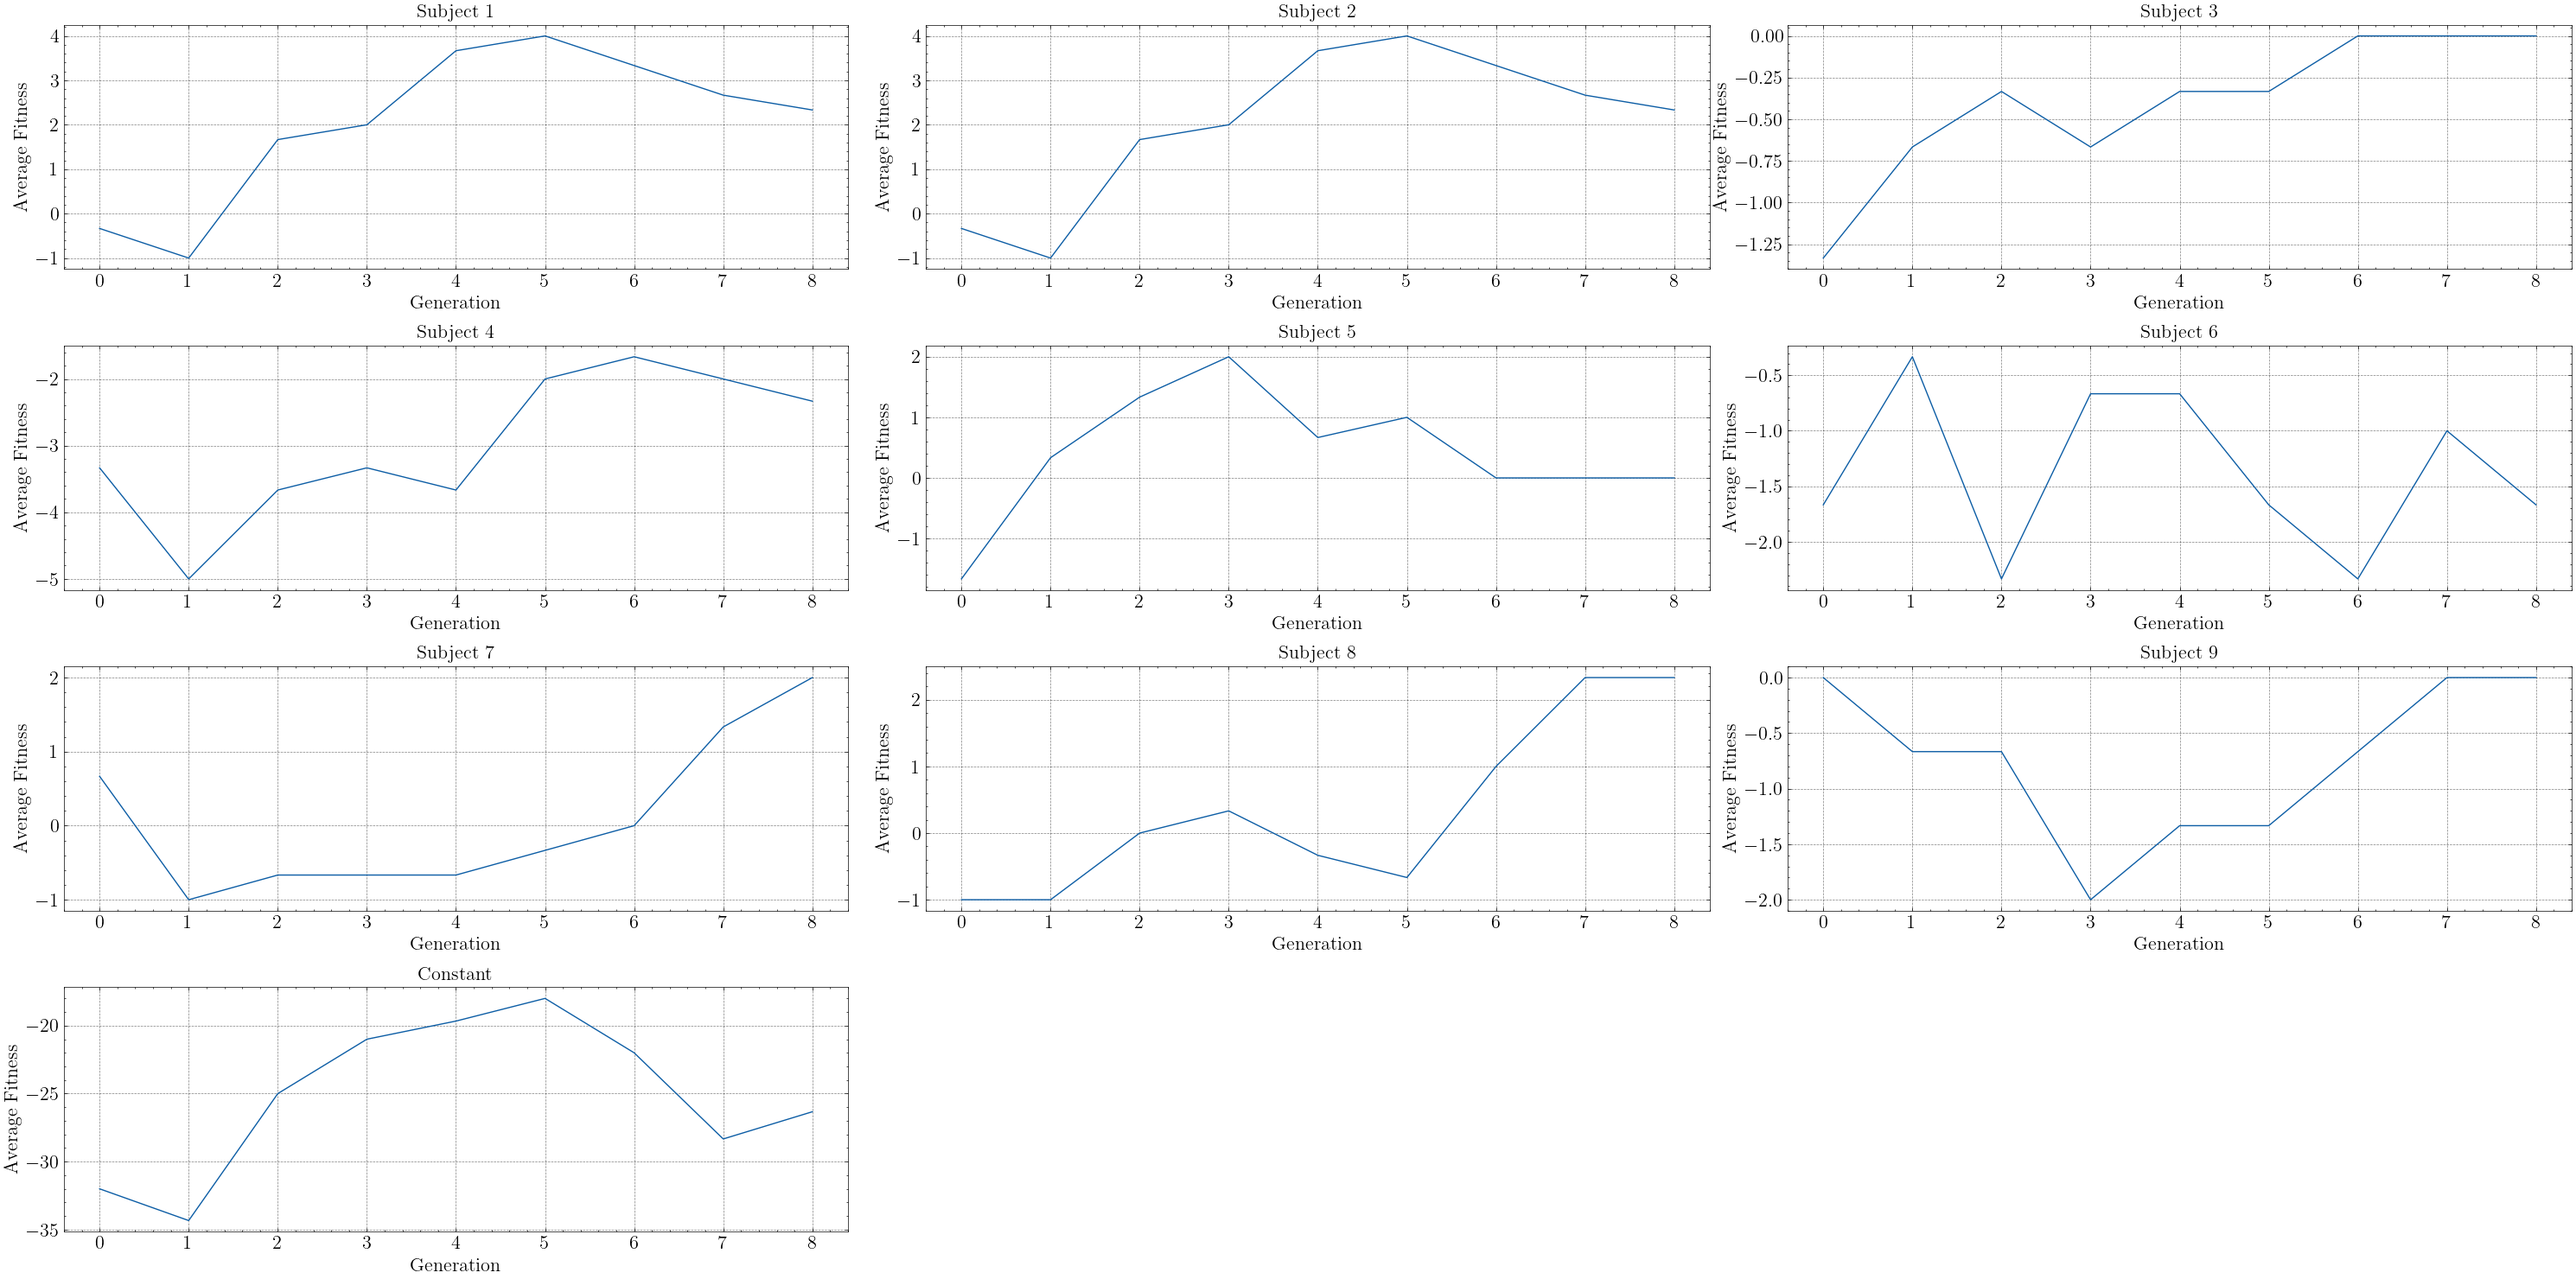
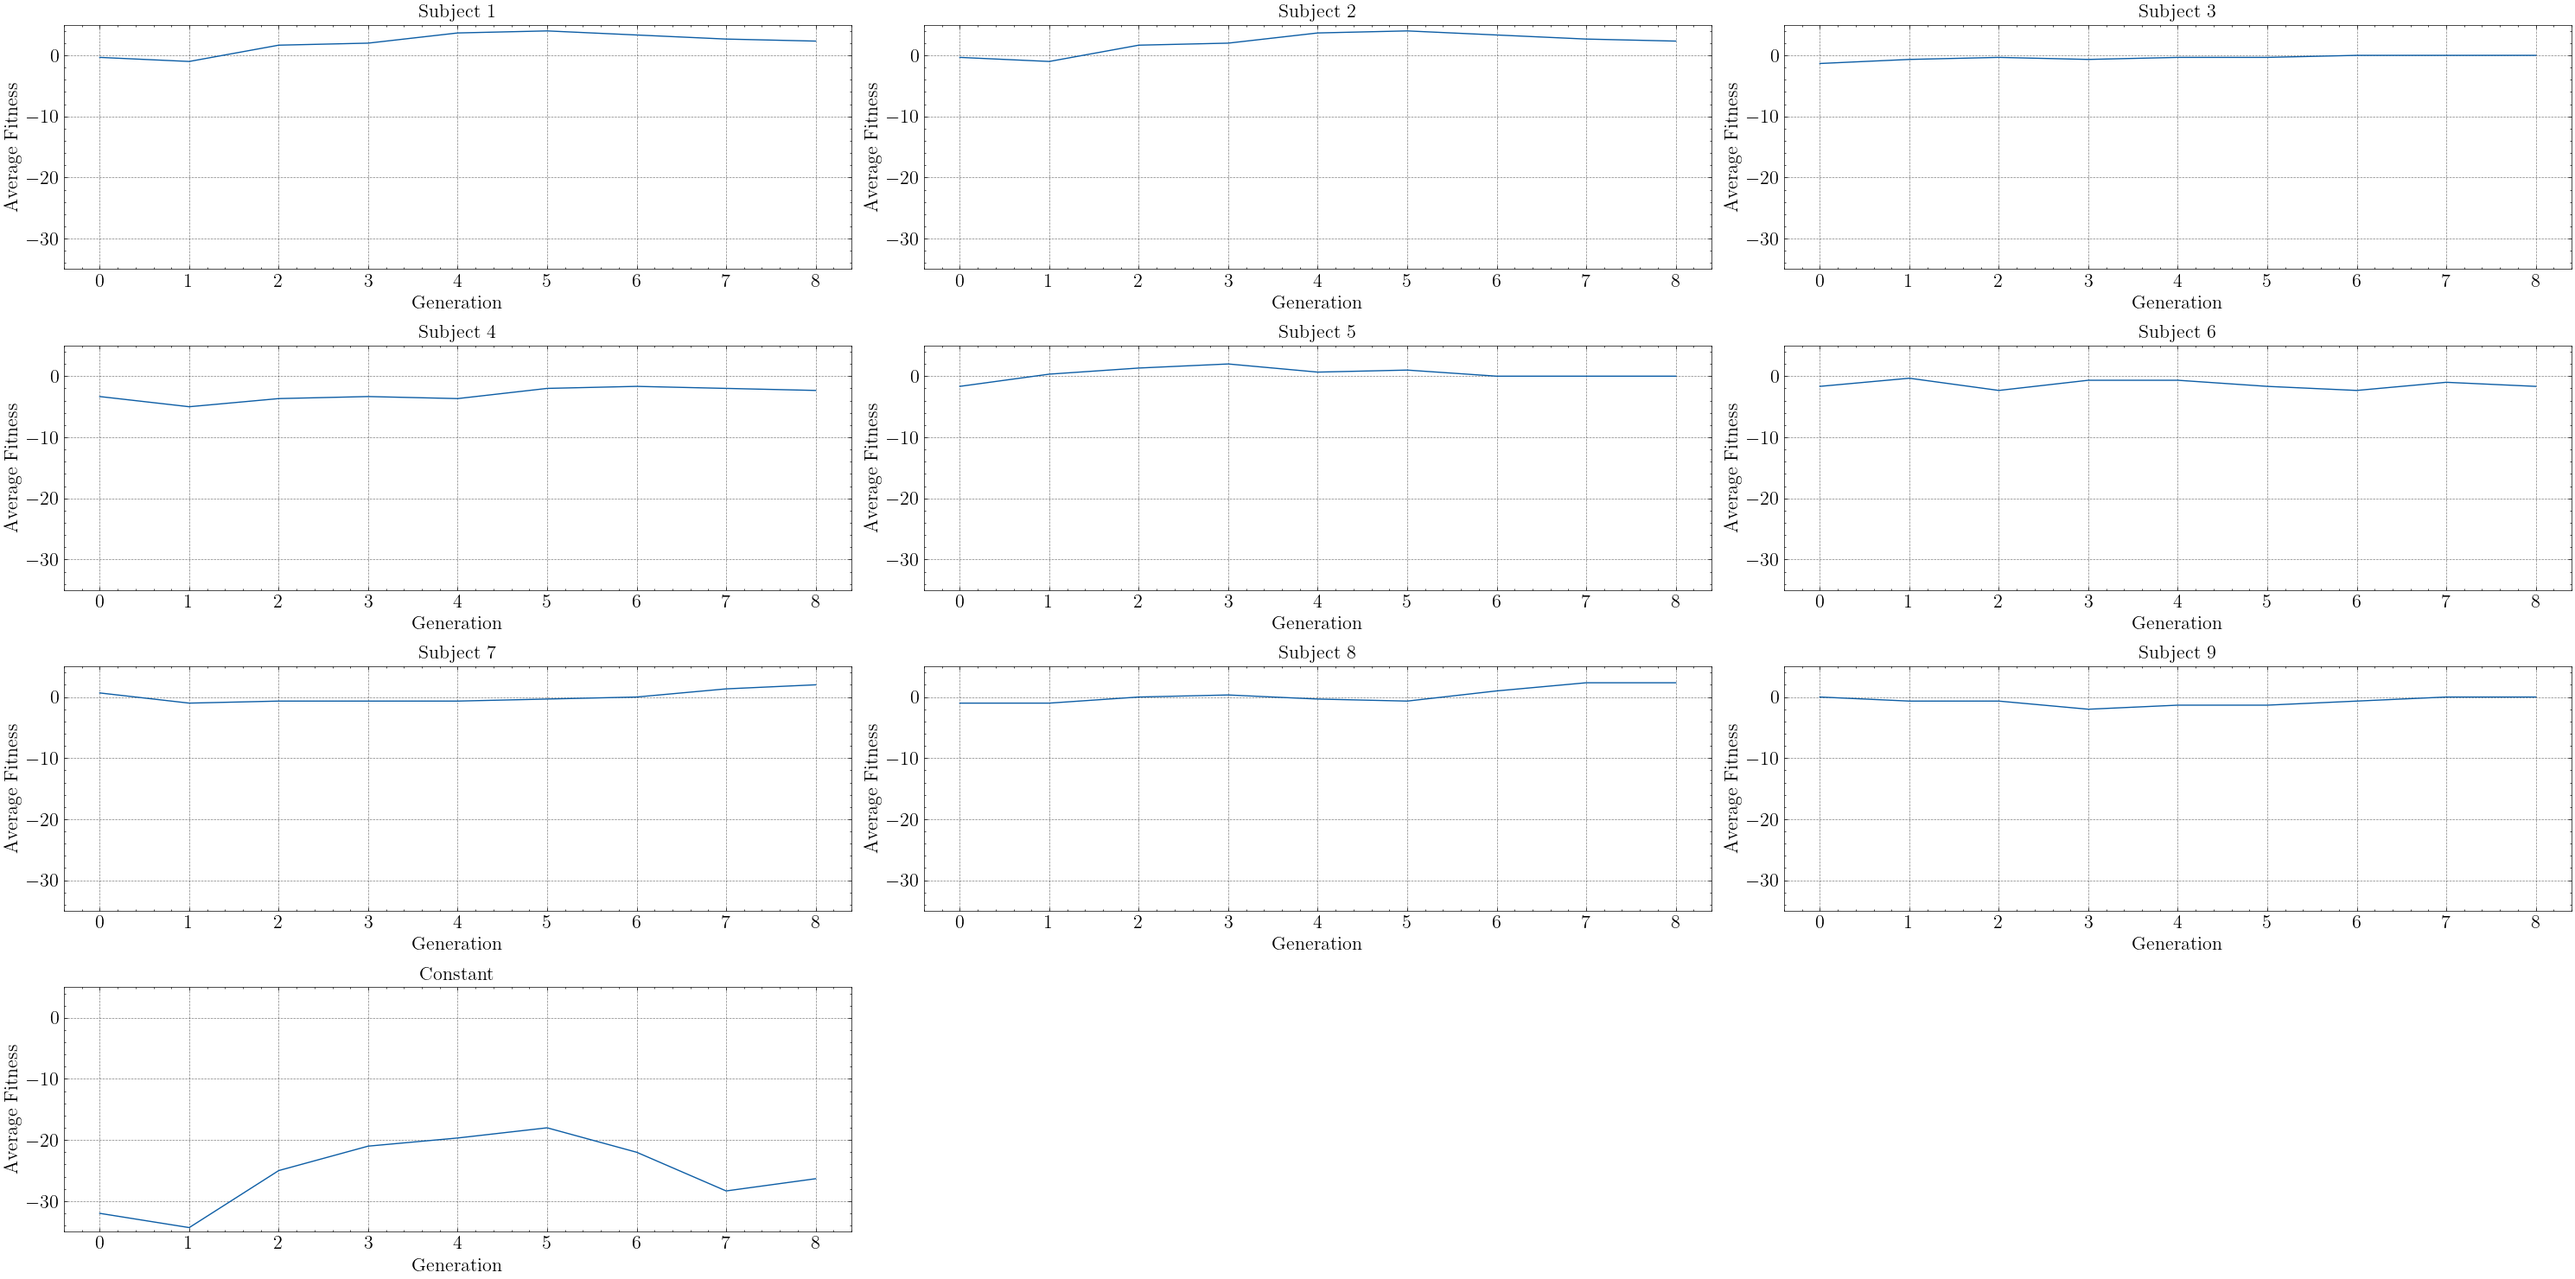
update

diff --git a/p.py b/p.py
@@ -132,42 +132,52 @@ axes[0][0].plot([i for i in range(9)], s1)
 axes[0][0].set_title("Subject 1")
 axes[0][0].set_xlabel("Generation")
 axes[0][0].set_ylabel("Average Fitness")
+axes[0][0].set_ylim([-35, 5])
 axes[0][1].plot([i for i in range(9)], s2)
 axes[0][1].set_title("Subject 2")
 axes[0][1].set_xlabel("Generation")
 axes[0][1].set_ylabel("Average Fitness")
+axes[0][1].set_ylim([-35, 5])
 axes[0][2].plot([i for i in range(9)], s3)
 axes[0][2].set_title("Subject 3")
 axes[0][2].set_xlabel("Generation")
 axes[0][2].set_ylabel("Average Fitness")
+axes[0][2].set_ylim([-35, 5])
 axes[1][0].plot([i for i in range(9)], s4)
 axes[1][0].set_title("Subject 4")
 axes[1][0].set_xlabel("Generation")
 axes[1][0].set_ylabel("Average Fitness")
+axes[1][0].set_ylim([-35, 5])
 axes[1][1].plot([i for i in range(9)], s5)
 axes[1][1].set_title("Subject 5")
 axes[1][1].set_xlabel("Generation")
 axes[1][1].set_ylabel("Average Fitness")
+axes[1][1].set_ylim([-35, 5])
 axes[1][2].plot([i for i in range(9)], s6)
 axes[1][2].set_title("Subject 6")
 axes[1][2].set_xlabel("Generation")
 axes[1][2].set_ylabel("Average Fitness")
+axes[1][2].set_ylim([-35, 5])
 axes[2][0].plot([i for i in range(9)], s7)
 axes[2][0].set_title("Subject 7")
 axes[2][0].set_xlabel("Generation")
 axes[2][0].set_ylabel("Average Fitness")
+axes[2][0].set_ylim([-35, 5])
 axes[2][1].plot([i for i in range(9)], s8)
 axes[2][1].set_title("Subject 8")
 axes[2][1].set_xlabel("Generation")
 axes[2][1].set_ylabel("Average Fitness")
+axes[2][1].set_ylim([-35, 5])
 axes[2][2].plot([i for i in range(9)], s9)
 axes[2][2].set_title("Subject 9")
 axes[2][2].set_xlabel("Generation")
 axes[2][2].set_ylabel("Average Fitness")
+axes[2][2].set_ylim([-35, 5])
 axes[3][0].plot([i for i in range(9)], c)
 axes[3][0].set_title("Constant")
 axes[3][0].set_xlabel("Generation")
 axes[3][0].set_ylabel("Average Fitness")
+axes[3][0].set_ylim([-35, 5])
 
 fig.delaxes(axes[3][1])
 fig.delaxes(axes[3][2])
